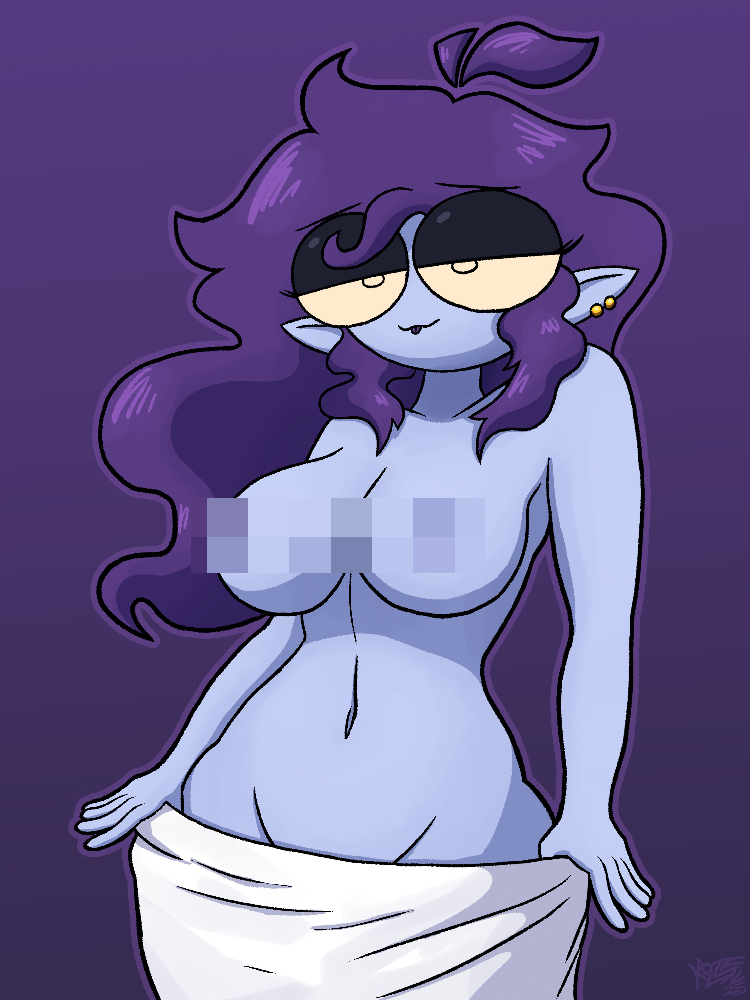
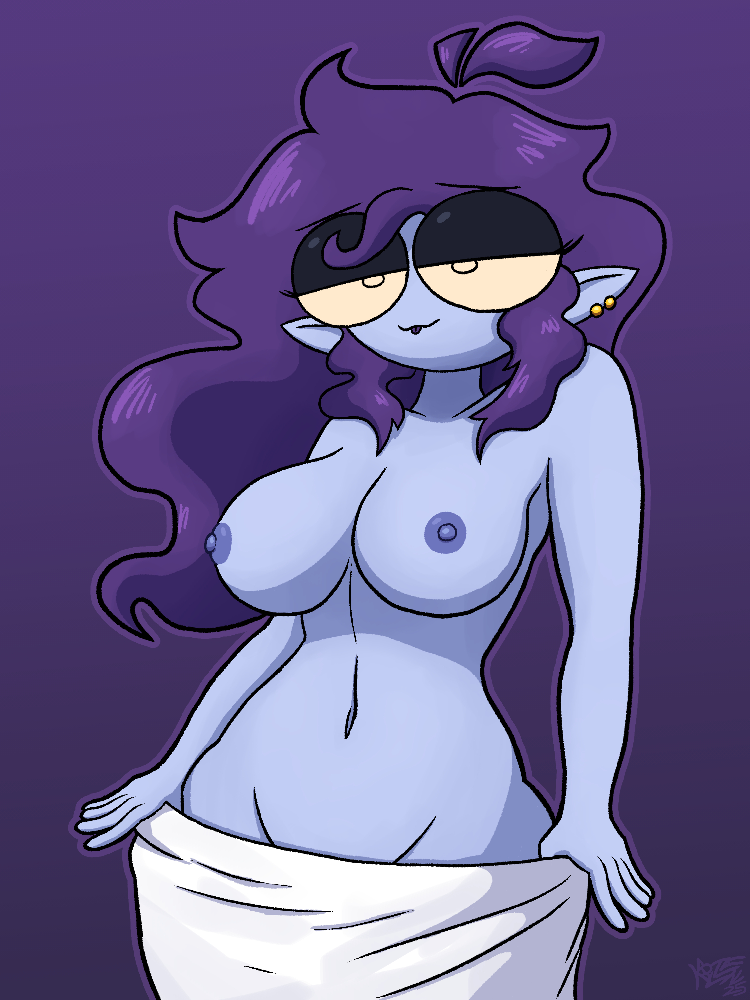
wanderers added

Changed region(s): [[0.368, 0.496, 0.5213, 0.589], [0.552, 0.496, 0.644, 0.589], [0.276, 0.496, 0.3373, 0.589]]

diff --git a/manicfrenzy/camp/campscript.js b/manicfrenzy/camp/campscript.js
@@ -531,7 +531,39 @@ const ocs = {
 		images: [
 			"../ocAssets/toxin/toxic.png"
 		]
-	}
+	},
+	mist: {
+		name: "<span style=\"color: #B3DFF9;\">Mist</span>",
+		desc: "1 of 4 aerosol creatures I drew",
+		size: 1,
+		images: [
+			"../ocAssets/mist/mist.png"
+		]
+	},
+	soot: {
+		name: "<span style=\"color: #F3C009;\">Soot</span>",
+		desc: "1 of 4 aerosol creatures I drew",
+		size: 1,
+		images: [
+			"../ocAssets/soot/soot.png"
+		]
+	},
+	smoke: {
+		name: "<span style=\"color: #FBAC30;\">Smoke</span>",
+		desc: "1 of 4 aerosol creatures I drew",
+		size: 1,
+		images: [
+			"../ocAssets/smoke/smoke.png"
+		]
+	},
+	fog: {
+		name: "<span style=\"color: #FFFFFF;\">Fog</span>",
+		desc: "1 of 4 aerosol creatures I drew",
+		size: 1,
+		images: [
+			"../ocAssets/fog/fog.png"
+		]
+	},
 };
 
 window.addEventListener("load", () => {

diff --git a/manicfrenzy/camp/unsafe-campsite/index.html b/manicfrenzy/camp/unsafe-campsite/index.html
@@ -113,6 +113,26 @@
 								<img src="../ocAssets/sade/sade-w.png">
 							</div>
 						</div>
+						<div class="wanderer" data-oc="mist">
+							<div class="bounce-wrapper">
+								<img src="../ocAssets/mist/mist-w.png">
+							</div>
+						</div>
+						<div class="wanderer" data-oc="soot">
+							<div class="bounce-wrapper">
+								<img src="../ocAssets/soot/soot-w.png">
+							</div>
+						</div>
+						<div class="wanderer" data-oc="fog">
+							<div class="bounce-wrapper">
+								<img src="../ocAssets/fog/fog-w.png">
+							</div>
+						</div>
+						<div class="wanderer" data-oc="smoke">
+							<div class="bounce-wrapper">
+								<img src="../ocAssets/smoke/smoke-w.png">
+							</div>
+						</div>
 						
 						
 						
